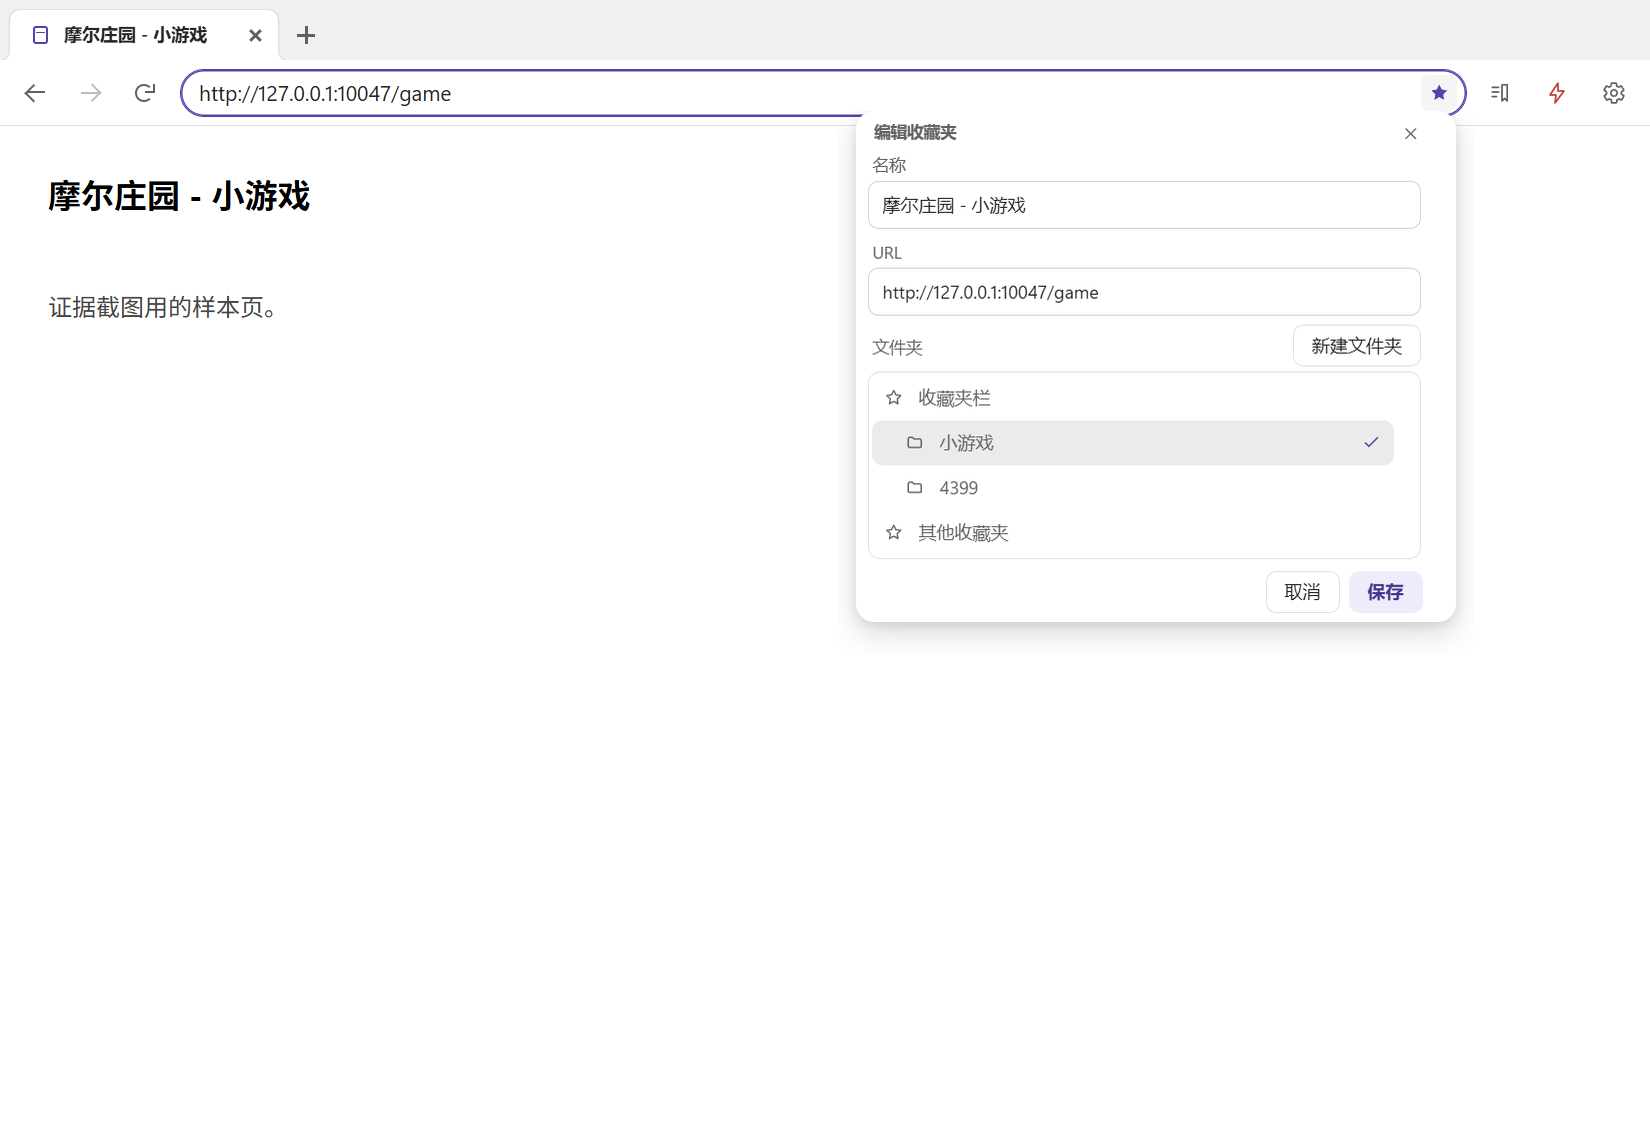
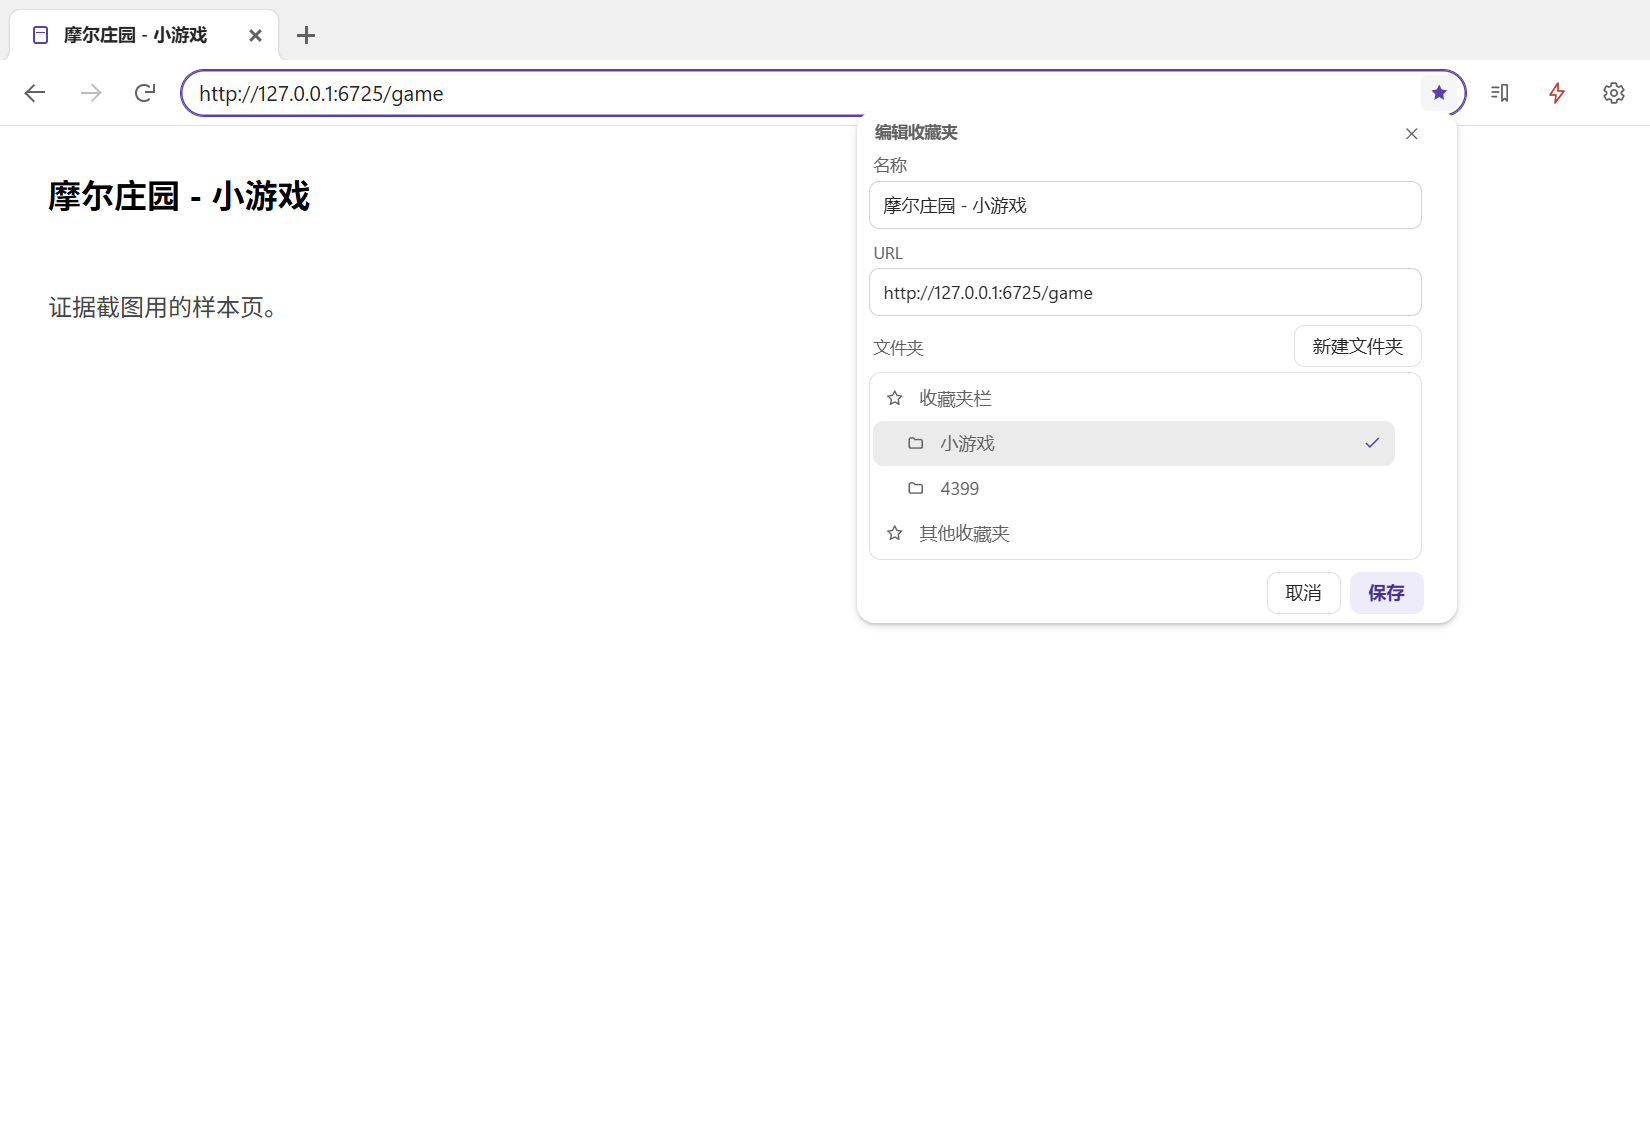
style(overlay): 投影收紧到 Edge 那种克制感（1–2px 偏移、2–6px 模糊），边距 6/10
反馈：飞窗"太发散，像光晕、像丁达尔效应"；对比 Edge，左右只是一层柔和阴影（不是实线），
只有底部明显一点。

上一版是 `0 2px 6px 10% + 0 8px 20px 14%` 配 12/20 的边距：20px 模糊在 12px 边距里摊开，
左右两侧各有一圈灰雾，整体边界糊掉。

改法：
- 投影收紧成 `0 1px 2px 16%`（近层，贴边）+ `0 2px 6px 10%`（远层，主要落在底部）。
  模糊只有 2–6px，左右形成一条柔和边，底部略重——与 Edge 的观感一致。
- 边距按 Chromium 的公式反推后跟着收紧：左右 `OVERLAY_GUTTER_X` 12 → **6**（需要 blur/2 = 3，
  留余量）、底部 `OVERLAY_GUTTER_BOTTOM` 20 → **10**（需要 blur/2 + 偏移 = 5，留余量）。
  透明边距变小还有一个副作用收益：鼠标转发的那条带从 12/20px 缩到 6/10px。
- `shell-overlays` 的高度补正、`clampBelow` 的默认 inset、CSS 变量都自动跟着（同一组常量）。
- toast 用同一层投影（它本身有 12px 边距，够放下这层更紧的阴影）。

Chromium 对照（写在注释里）：气泡菜单是 `bubble_menu_shadow_elevation = 12`，
`MakeMdShadowValues(12)` 给出 key `(0,12)` blur 48 + ambient blur 24，`GetInsets()` 得到
左/右 24、上 12、下 36。那套阴影是给**独立窗口**的（阴影画在窗口外、不占点击区域），
我们只能画在视图内部的边距里，所以按同一**比例关系**（左/右 = blur/2、下 = blur/2 + 偏移）
取一组小得多的值，避免"用边距换阴影"把面板推得离按钮很远。

用例：常量断言从 12/20 改成 6/10（单元层 + 冒烟里两处硬编码的 GUTTER）；
`cardRect`/`insideCard` 的不对称断言保持（下 > 左右）。

验证：vue-tsc 通过；unit 351/351；全量隐藏冒烟 31 文件 0 失败（106 s）。
（第一次全量跑时 `engine-rules` 在 4 并发下超时一次，单跑 15 s 通过、重跑全量也通过，
按既有 flake 处理，与本次改动无关。）
截图：docs/evidence/2026-11-26-flyout-{quick,bubble}.png 与收藏夹那组按新阴影重拍。

diff --git a/app/src/shared/overlay-geometry.ts b/app/src/shared/overlay-geometry.ts
@@ -10,22 +10,24 @@
  * 裁掉），所以视图 = 卡片 + 一圈透明边距。透明边距落在视图命中区里会吃掉鼠标，主进程要把边距
  * 里的鼠标**转发给当前页面**（`shell-overlays.ts` 的 `forwardGutterMouse`）。
  *
- * **边距不是四边一样的**——这一点照抄 Chromium：投影向下偏移 `dy`，所以
- *   `左右 = blur/2`、`上 = blur/2 - dy`、`下 = blur/2 + dy`（`ui/gfx/shadow_value.cc` 的
- * `GetInsets()`）；一个 elevation 12 的气泡就是 左/右 24、上 12、**下 36**（`MakeMdShadowValues`）。
- * 我们的卡片投影是 `0 8px 20px`（远）+ `0 2px 6px`（近），按同一公式：
- *   左右需要 blur/2 = 10、底部需要 blur/2 + dy = 18。
- * 所以留 `OVERLAY_GUTTER_X = 12`（左右，留 2px 余量）与 `OVERLAY_GUTTER_BOTTOM = 20`（底部）。
+ * **边距不是四边一样的**，照抄 Chromium（`ui/gfx/shadow_value.cc` 的 `GetInsets()`）：
+ *   `左右 = blur/2`、`上 = blur/2 - offset.y`、`下 = blur/2 + offset.y`
+ * （elevation 12 的气泡是 左/右 24、上 12、下 36；默认那档是 6/4/8）。
+ * 我们的卡片投影是收紧过的两层：`0 1px 3px` 与 `0 3px 8px`，按同一公式
+ *   左右需要 blur/2 = 4、底部需要 blur/2 + 偏移 = 7
+ * 所以留 `OVERLAY_GUTTER_X = 6`（左右）、`OVERLAY_GUTTER_BOTTOM = 10`（底部）。
  * 顶边不留：卡片顶边要贴住锚点按钮，那圈投影落在工具栏上也看不见。
- * 上一版四周都给 12，底部投影需要 18 被裁掉——这就是 2026-11-26「效果不对」的来源。
+ *
+ * 2026-11-26 第二轮（贴 Edge 的克制感）：早前用 `0 8px 20px` + 12/20 边距，边缘摊成一片
+ * 灰雾（"丁达尔效应"）。收紧成 1–3px 偏移、3–8px 模糊后，左右只剩一层柔和边、底部略重。
  */
 
 export const OVERLAY_INSET = 12
 export const OVERLAY_TOP_INSET = 4
-/** 卡片左右两侧的透明留白（画投影用）。 */
-export const OVERLAY_GUTTER_X = 12
+/** 卡片左右两侧的透明留白（画收紧后的投影用）。 */
+export const OVERLAY_GUTTER_X = 6
 /** 卡片底部的透明留白：比左右大，因为投影整体向下偏移。 */
-export const OVERLAY_GUTTER_BOTTOM = 20
+export const OVERLAY_GUTTER_BOTTOM = 10
 /** 引擎面板的**卡片**宽度（视图宽度 = 卡片 + 两侧 gutter）。 */
 export const ENGINE_PANEL_CARD_WIDTH = 264
 export const ENGINE_PANEL_INITIAL_HEIGHT = 208

diff --git a/app/src/renderer/overlay-panel.css b/app/src/renderer/overlay-panel.css
@@ -27,8 +27,13 @@
   padding: 4px;
   border: 0;
   border-radius: 12px;
-  /* 与 Chromium 菜单的 elevation 12 同一量级：两层（近处紧贴 + 远处扩散）。 */
-  box-shadow: 0 2px 6px rgb(0 0 0 / 10%), 0 8px 20px rgb(0 0 0 / 14%);
+  /*
+   * 收紧的两层投影（贴 Edge 的克制感）：1px/3px 偏移、3px/8px 模糊。
+   * 早前用 `0 8px 20px`，边缘摊成一片灰雾（反馈："像光晕、像丁达尔效应"）。
+   * 边距按 Chromium 的 `ShadowValue::GetInsets()` 反推：左右 = blur/2 = 4、
+   * 底部 = blur/2 + 偏移 = 7（见 `shared/overlay-geometry.ts` 的 GUTTER 常量）。
+   */
+  box-shadow: 0 1px 2px rgb(0 0 0 / 16%), 0 2px 6px rgb(0 0 0 / 10%);
   background: var(--surface-toolbar);
   color: var(--text-primary);
   font: var(--size-body)/1.4 var(--shell-font);

diff --git a/app/tests/unit/overlay-geometry.test.ts b/app/tests/unit/overlay-geometry.test.ts
@@ -155,6 +155,9 @@ describe('cardRect / insideCard（透明投影边距的命中判定）', () => {
 describe('透明投影边距（照抄 Chromium 的不对称）', () => {
   it('底部比左右大：投影向下偏移，底部要 blur/2 + 偏移', () => {
     expect(OVERLAY_GUTTER_BOTTOM).toBeGreaterThan(OVERLAY_GUTTER_X)
+    // 收紧后的投影：左右只需 4、底部 7（见 geometry 文件头的推导），留一点余量。
+    expect(OVERLAY_GUTTER_X).toBe(6)
+    expect(OVERLAY_GUTTER_BOTTOM).toBe(10)
   })
 
   it('视图高度 = 卡片 + 底部边距，宽度 = 卡片 + 两侧边距', () => {

diff --git a/app/src/renderer/ShellOverlay.vue b/app/src/renderer/ShellOverlay.vue
@@ -172,7 +172,7 @@ onBeforeUnmount(() => {
   /* 提示条也留了一圈透明边距（`ShellOverlay` 的 inline padding），所以同样用真投影。 */
   border: 0;
   border-radius: 12px;
-  box-shadow: 0 2px 6px rgb(0 0 0 / 10%), 0 8px 20px rgb(0 0 0 / 14%);
+  box-shadow: 0 1px 2px rgb(0 0 0 / 16%), 0 2px 6px rgb(0 0 0 / 10%);
 }
 .engine-choices { display: grid; gap: 2px; }
 .engine-choice {

diff --git a/app/README.md b/app/README.md
@@ -66,7 +66,7 @@ npm run dev
 - **设置页**：`bao://settings` 作为内部页在标签里打开（`Ctrl+,` 或地址栏输入），已存在则复用；**当前标签是新标签页时就地覆盖它**（标签 id/位置不变，后退可回新标签页）。左侧是**真分区导航**，按 Edge 的切法与图标排列：`外观`（主题）/ `引擎`（默认引擎、Flash 插件、站点引擎规则：列出 `站点 → 引擎`，可单条「忘记」或全部清除，0 条时显示空状态）/ `隐私、搜索和服务`（默认搜索引擎、浏览数据清理）/ `启动` / `性能`（飞窗预热、后台标签休眠）/ `语言` / `关于`——只列我们真有内容的项（Edge 的个人资料、密码和自动填充、默认浏览器、下载、辅助功能、重置设置、扩展都没有数据源或能力，一律不列；下载按安全策略整体拒绝，见 `main/sessions.ts` 的 `denyDownloads`）。切换分区只换 `:hidden`、不重载文档，并把内容区滚回顶部。内部页跑在 `persist:bao-next-internal`、与页面同一套沙箱，只拿到 `baoSettings`（read/write/subscribe），拿不到外壳桥。在设置页里输入 http(s) 会新开普通标签，设置页原地不动。配色只有**一个强调色**（紫 `--accent`）：列表行选中态用 Fluent 中性选中面，品牌色只出现在 radio/开关/链接/焦点环上（早期混用 Fluent 蓝 `colorBrandStroke1` 与紫色，地址栏焦点环是蓝的、选中行是紫的，看起来不跟主题）。
 - **新标签页**：`bao://newtab` 是真实内部页（与设置页同会话、不同 origin），`Ctrl+T` / 「+」/ 双击标签栏 / 关闭最后一个标签都新建一个 NTP（不复用）；打开时焦点在地址栏。页面本体是 realbox（回车在本标签导航）+ 设置入口 + 原生 Flash 状态，快捷方式/最近访问等依赖历史与书签的板块尚未接入。**首帧由主进程注入**：`bao://` 在返回 HTML 前把 `data-theme`、整套 Fluent 变量与 `NtpSnapshot` 写进 `<head>`（`shared/internal-bootstrap.ts`），所以第一帧就是真页面、配色与数据都对——不再有 HTML 里手抄的骨架与 `--critical-*` 副本（那套副本会漂、且"骨架→真页面"两套 DOM 交接时必然跳一下）。代价是首帧只有底色、内容在 Vue 挂载后出现（暖启动实测：首绘 92 ms、首内容 144 ms）。NTP → 网页是同一个标签换视图（内部会话永不承载 http(s)）；网页的**最早一条历史后退会回到 NTP**（重建 NTP 视图，页面状态不保留），再前进会重新加载该网页。
 - **飞窗预热**：设置 → 性能 → 飞窗预热，是一个开关（**默认开**）。开=窗口创建即准备好飞窗文档，第一次点开就是热的（共享进程下**每窗口约 5–9 MB、不多一个渲染进程**）；关=不提前创建、用到才建，关掉的瞬间还会释放已经建好的那份。预热后打开 3 / 9 ms；完全不预热的键盘冷开 3 / 27 ms（端到端 144 ms）。原三档里的「自动（悬停预热 + 空闲 5 分钟回收）」已于 2026-11-26 删除：它省的就是这几 MB，却要养悬停意图/闸门/回收计时器。实测见 `docs/discussions/2026-11-25-overlay-shared-process-demo.md` §5.1 与 §7.5。
-- **齿轮快捷设置**：工具栏齿轮打开飞窗（主题 / 默认引擎 / 收藏夹入口 / 全部设置），与设置页共用同一份 store，任一侧修改两边立刻同步。视觉取 Chromium 数值（圆角 12、`elevation 12` 量级的**真投影**、无外描边），无关闭按钮（点外部 / Esc 关闭）。底部两行（收藏夹 / 全部设置）是直接动作、不是子菜单，所以**不画 `>`**（2026-11-26 反馈：那个箭头让人以为还要再展开一层）。飞窗**永远在窗口内**：贴着触发按钮下沿、右边缘对齐，超出内容区时面板内部滚动。飞窗的分层方式（2026-11-26 改）：卡片**没有外描边**，用真投影；投影画在视图内部，所以视图 = 卡片 + 一圈透明边距（左右 `OVERLAY_GUTTER_X`=12、底部 `OVERLAY_GUTTER_BOTTOM`=20；底部更大，因为投影整体向下偏移——Chromium `ShadowValue::GetInsets()` 就是 `左右 = blur/2`、`下 = blur/2 + 偏移`，elevation 12 的气泡是 24/24/36）。锚点贴着窗口右缘时（齿轮是最后一个按钮）视图会被往左推几个像素，卡片宽度不变。透明边距落在视图命中区里会吃掉鼠标，因此主进程把边距里的 `mouseDown`/`mouseMove` **转发给当前页面**（`shell-overlays.ts` 的 `forwardGutterMouse`，`quick-settings` 用例里有专门一条：边距里的点击必须到达页面并收起飞窗）——这是 Electron 的硬约束：`View.setBorderRadius` 的官方注释也写着 cutout 仍然捕获点击，子视图没有原生投影，换独立透明窗口则会抢激活、破坏「一个视图一个渲染进程」。
+- **齿轮快捷设置**：工具栏齿轮打开飞窗（主题 / 默认引擎 / 收藏夹入口 / 全部设置），与设置页共用同一份 store，任一侧修改两边立刻同步。视觉取 Chromium 数值（圆角 12、**收紧的**真投影 `0 1px 2px 16% / 0 2px 6px 10%`、无外描边），无关闭按钮（点外部 / Esc 关闭）。底部两行（收藏夹 / 全部设置）是直接动作、不是子菜单，所以**不画 `>`**（2026-11-26 反馈：那个箭头让人以为还要再展开一层）。飞窗**永远在窗口内**：贴着触发按钮下沿、右边缘对齐，超出内容区时面板内部滚动。飞窗的分层方式（2026-11-26 改）：卡片**没有外描边**，用真投影；投影画在视图内部，所以视图 = 卡片 + 一圈透明边距（左右 `OVERLAY_GUTTER_X`=6、底部 `OVERLAY_GUTTER_BOTTOM`=10；底部更大，因为投影整体向下偏移——Chromium `ShadowValue::GetInsets()` 就是 `左右 = blur/2`、`下 = blur/2 + 偏移`，elevation 12 的气泡是 24/24/36）。锚点贴着窗口右缘时（齿轮是最后一个按钮）视图会被往左推几个像素，卡片宽度不变。透明边距落在视图命中区里会吃掉鼠标，因此主进程把边距里的 `mouseDown`/`mouseMove` **转发给当前页面**（`shell-overlays.ts` 的 `forwardGutterMouse`，`quick-settings` 用例里有专门一条：边距里的点击必须到达页面并收起飞窗）——这是 Electron 的硬约束：`View.setBorderRadius` 的官方注释也写着 cutout 仍然捕获点击，子视图没有原生投影，换独立透明窗口则会抢激活、破坏「一个视图一个渲染进程」。
 - **收藏夹（第一轮）**：两件事分开，按 Chromium 142 的源码对齐（`chrome/browser/ui/browser_commands.cc` 的 `BookmarkCurrentTab`、`chrome/browser/ui/views/bookmarks/bookmark_bubble_view.cc`）。**地址栏星标**（`StarView` 的位置）是页面级的：点一下**先落库**（名称=页面标题、位置=收藏夹栏），再弹出「编辑收藏夹」气泡（名称 / **文件夹下拉** / 更多 / 完成 / 删除，初始焦点在名称框并全选）；已收藏时星标实心，再点就是编辑同一条（幂等，不会攒出重复条目）。改名在**停顿 400 ms / 失焦 / 点完成**时落库——Chromium 是"关闭气泡时统一 ApplyEdits"，我们的气泡是独立文档、关闭那一刻 `quick` 角色的命令权限已经失效，所以改成更保守的"即时保存"，用户不会因为点了下页面外面就丢掉刚改的名字。**按钮的主次与 Chromium 相反**（2026-11-26 产品决定）：点星标时收藏已经写进去了，最常见的意图是"点错了撤销"，所以**删除在最右、用危险色**，「完成」退成次要按钮。**文件夹是下拉**，列出库里**所有**文件夹（两级以上缩进，不只两个永久根）；选中即移动。气泡里的「更多」打开**完整编辑器**：名称 / URL / 文件夹树 / **新建文件夹** / 保存 / 取消（取消不写库）；编辑器与气泡、收藏夹树、设置页读的是**同一份投影**，新建的文件夹立刻出现在树里。内部页不显示星标（Chromium 对 `chrome://` 页同样不显示；地址栏是弹性的，隐藏不会改工具栏宽度）。**工具栏「收藏夹」按钮**是另一件事（Edge 那颗）：打开收藏夹树（按 `position` 排序，条目可点击导航当前标签、可逐条删除，列表封顶滚动）；齿轮飞窗里的「收藏夹」入口指向同一页。四者共用**同一个飞窗视图与文档**，靠 `view` 换页（`shared/overlay.ts` 的 `QuickView`：`settings` / `bookmarks` / `bookmark-edit` / `bookmark-editor`），换页不重新挂载、不重新预热，只重新锚定到对应按钮（宽度统一 320；编辑器 400）。数据在业务库 `bookmarks` 表（v3 迁移，两个永久根 `bar`/`other` 直接落在表里），随每次状态广播投影给外壳与浮层，星标/气泡/树/编辑器都从这一份投影算。四个飞窗（快捷设置 / 引擎面板 / 收藏夹 / 编辑气泡）共用 `renderer/overlay-panel.css` 的**同一组数值**（卡片圆角 12 + inset 1px 描边、内距 6、标题 11px 灰、菜单行 36 / 圆角 7、输入框 32、动作按钮 28）——各写一份的结果就是漂移，2026-11-26 已经出现过一次（新做的两页内距 8px、标题 12px 粗体、输入 28、档位 24，和既有两页不是一套）。本轮的边界：没有收藏夹横条（第三行、把页面视图往下推）、没有 `bao://favorites` 管理页（拖动排序、重命名/删除文件夹、导入 Chrome 书签）、没有 favicon 管道（条目用页面图标占位）——数据层（树、环检测、排序位、`titleFor`、`clearBookmarks`）已经就位并有单测。
 - **启动只有一个标签页**；多标签由「新建标签页」按钮、双击标签栏或 `Ctrl+T` 创建。
 - 标签栏交互：点击/键盘切换、中键关闭、关闭按钮按需显示、拖动排序、拖出窗口（tearoff）、右键菜单（重新加载/复制/固定/静音/关闭/撤销关闭）、`Ctrl+W` 关闭、`Ctrl+Shift+T` 撤销关闭。
